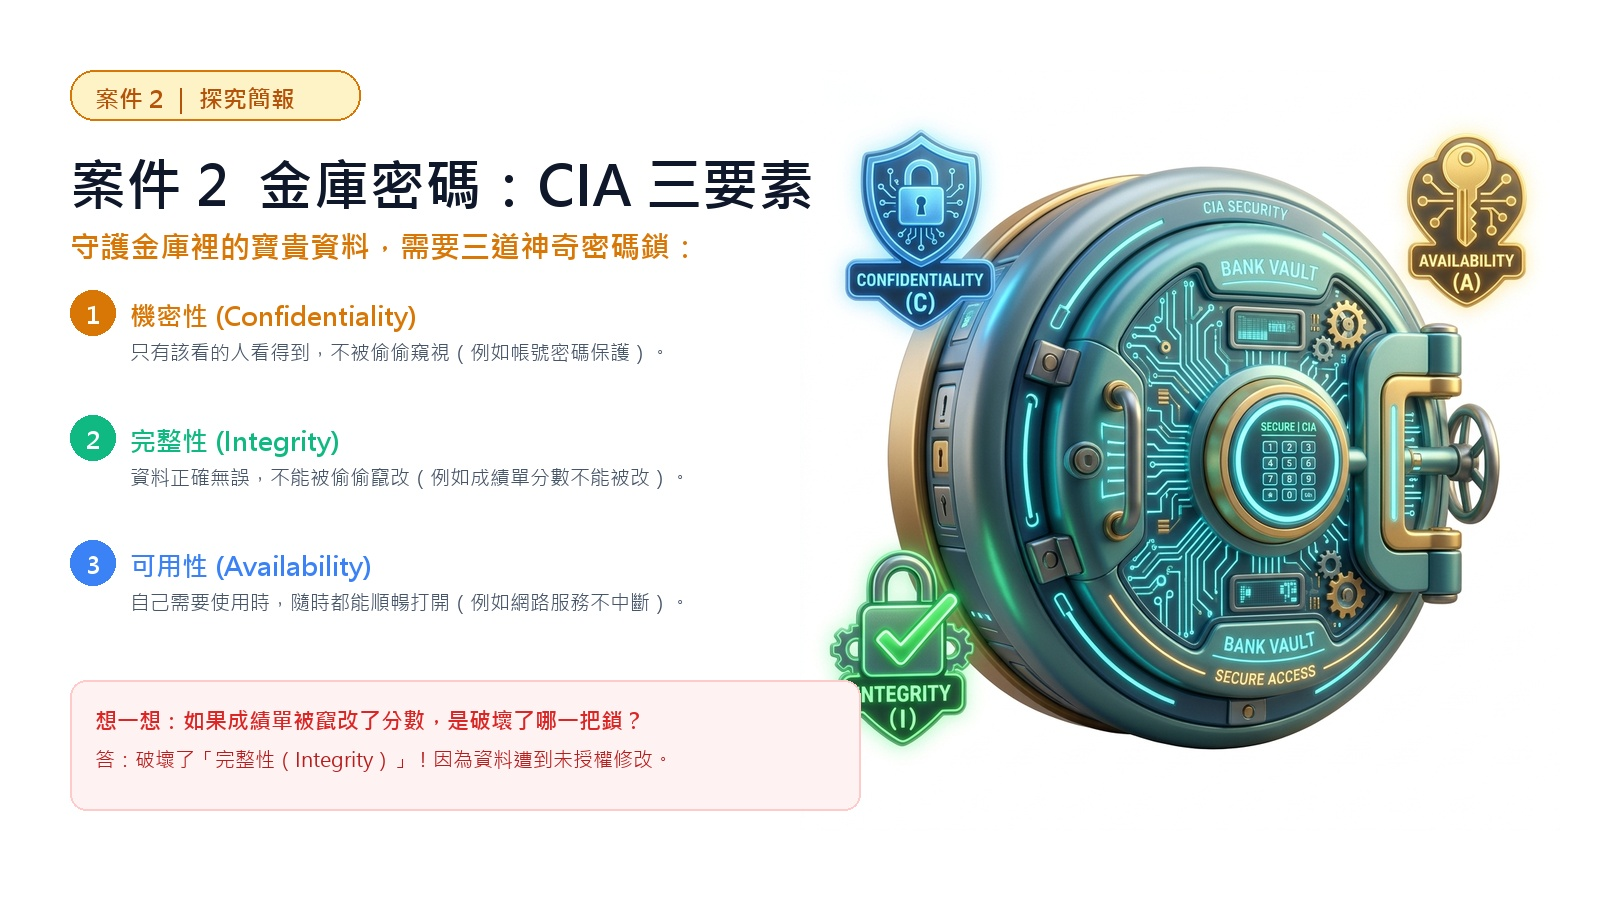
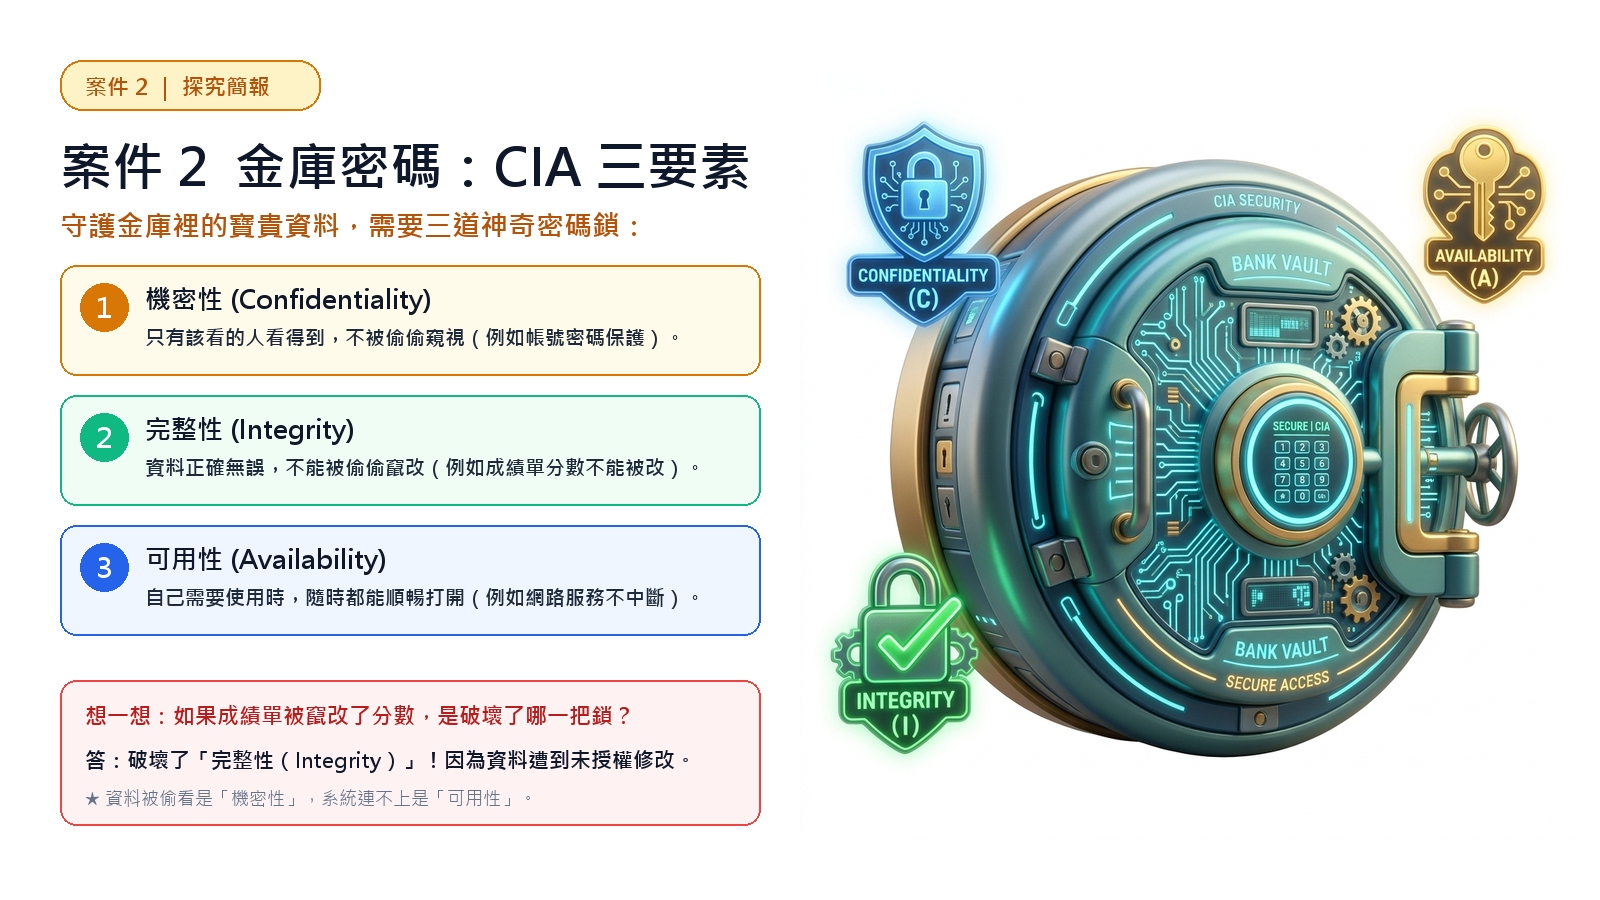
fix(case2): 金庫密碼投影片3大點提升為高對比深墨黑粗體卡片，下方問答框徹底消除對鎖頭徽章之遮擋

diff --git a/units/g5-cyber-safety/index.html b/units/g5-cyber-safety/index.html
@@ -426,7 +426,7 @@
         {
           title: '案件 2　三把安全鎖',
           text: '資訊安全要守住三把鎖：<b>機密性</b>（不該看的人看不到）、<b>完整性</b>（資料沒被亂改）、<b>可用性</b>（需要時用得到）。威脅可能來自外部，也可能來自內部。',
-          slides: ['assets/final_case2.jpg?v=20261023_vivid'],
+          slides: ['assets/final_case2.jpg?v=20261023_perfect2'],
           interactive: GAMES.cia,
           quizzes: [
             {
